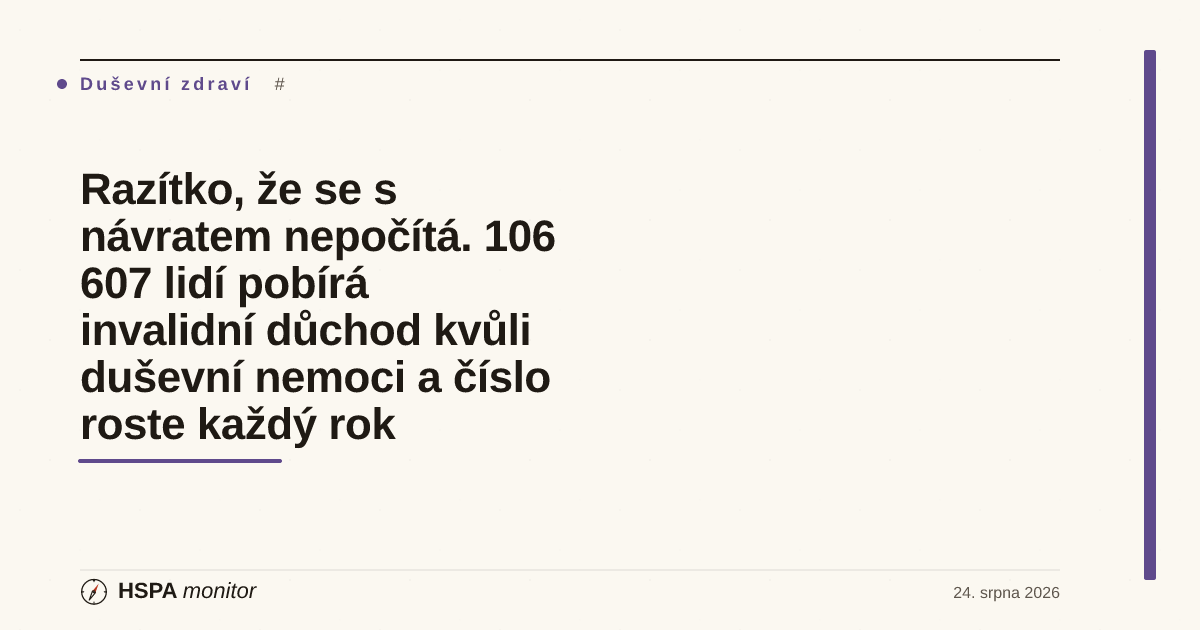
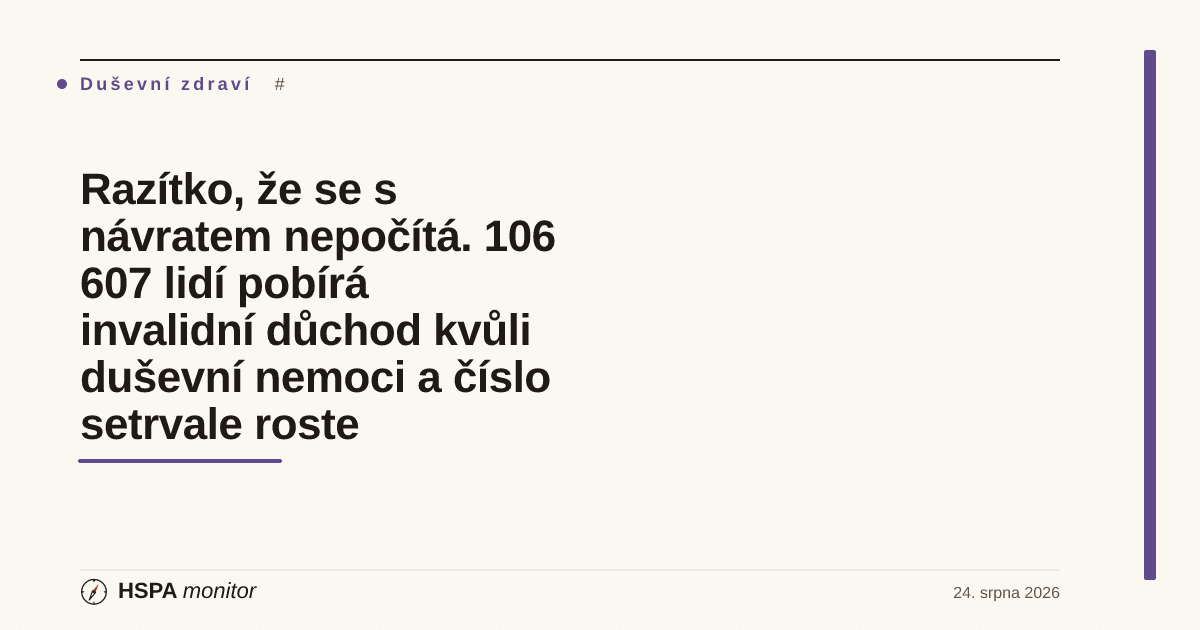
fix(článek): zpřesnit tvrzení o růstu řady invalidních důchodů
Řada 2010–2022 mezi lety 2010 a 2011 nepatrně klesla (86 493 → 86 456,
−37 důchodů), takže „roste každý jediný rok" neplatilo. Formulace v
titulku, hero kartě, grafu, metadatech i patient_story upraveny na
„od roku 2011 růst bez přerušení" s explicitní zmínkou výjimky.
Reaguje na review komentář na PR.

Claude-Session: https://claude.ai/code/session_01Vk18QXn1xwSsenumc4TPuv

Changed region(s): [[0.0617, 0.6333, 0.3392, 0.7238]]

diff --git a/05_M1_Starter/clanek-invalidni-duchody-dusevni.html b/05_M1_Starter/clanek-invalidni-duchody-dusevni.html
@@ -4,11 +4,11 @@
 <meta charset="UTF-8">
 <meta name="viewport" content="width=device-width, initial-scale=1.0">
 <title>Razítko, že se s návratem nepočítá. 106 607 lidí pobírá invalidní důchod kvůli duševní nemoci · HSPA Monitor</title>
-<meta name="description" content="K 31. prosinci 2022 vyplácelo Česko 106 607 invalidních důchodů pro duševní poruchy — o 23 % více než v roce 2010. Číslo roste každý rok bez ohledu na ekonomický cyklus a duševní poruchy dnes stojí za čtvrtinou všech invalidních důchodů. Analýza dat ČSSZ a ÚZIS: kde se z léčitelné nemoci stává trvalá invalidita a jaké páky má stát.">
+<meta name="description" content="K 31. prosinci 2022 vyplácelo Česko 106 607 invalidních důchodů pro duševní poruchy — o 23 % více než v roce 2010. Od roku 2011 číslo roste bez přerušení, bez ohledu na ekonomický cyklus, a duševní poruchy dnes stojí za čtvrtinou všech invalidních důchodů. Analýza dat ČSSZ a ÚZIS: kde se z léčitelné nemoci stává trvalá invalidita a jaké páky má stát.">
 <meta name="robots" content="noindex, nofollow">
 <meta property="og:type" content="article">
 <meta property="og:title" content="Razítko, že se s návratem nepočítá. 106 607 lidí pobírá invalidní důchod kvůli duševní nemoci">
-<meta property="og:description" content="Invalidní důchody pro duševní poruchy: 86 493 (2010) → 106 607 (2022), růst každý jediný rok. V nově přiznaných dominují deprese a úzkostné poruchy — léčitelné stavy. OECD: duševní nemoci stojí za 30–50 % nových invalidních dávek. Co s tím může udělat stát.">
+<meta property="og:description" content="Invalidní důchody pro duševní poruchy: 86 493 (2010) → 106 607 (2022), od roku 2011 růst bez přerušení. V nově přiznaných dominují deprese a úzkostné poruchy — léčitelné stavy. OECD: duševní nemoci stojí za 30–50 % nových invalidních dávek. Co s tím může udělat stát.">
 <meta property="og:locale" content="cs_CZ">
 <meta property="article:published_time" content="2026-08-24">
 <meta property="article:section" content="Duševní zdraví">
@@ -20,7 +20,7 @@
     creation_phase: new-indicator+article-write
     primary_sources_added: 6
     visual_elements_added: 4
-    notes: "Novy indikator invalidni_duchody_dusevni (Vysledky · Dusevni zdravi · Invalidita a pracovni dopady, framework monitoring, dimension zdravi). Centralni KPI: 106 607 vyplacenych invalidnich duchodu pro dg. F00-F99 k 31.12.2022 (1. st. 30 161, 2. st. 15 387, 3. st. 61 059), zdroj UZIS Psychiatricka rocenka 2022 (tab. 5.1-5.3, data CSSZ). Casova rada 2010-2022: 86 493 -> 106 607 (+23 %), rust kazdy rok. Nove priznane 2022: 4 722 (2 783 + 718 + 1 221), nejcasteji F4 a F32-F33. Podil dusevnich poruch na vsech vyplacenych ID: cca ctvrtina (CSSZ rocenka duch. pojisteni 2022, skupina dg. WHO c. 5: 106 367 ze 413 513); na nove priznanych cca sestina (4 691 z 27 175). Benchmark narrative_only — narodni legislativa nesrovnatelna; OECD Fit Mind Fit Job: 30-50 % novych davek v OECD, DRV Nemecko ~40 %. Direction context_dependent -> signal neutral (rust = horsi zdravi populace i dostupnejsi davky; pokles = uzdravovani i prisnejsi posudky). Vsechna klicova cisla 1:1 z metodicke karty a seedu. Otevrene body pred publikaci: povysit status, published:true + robots index, pripadne doplnit rok 2023 az UZIS vyda rocenku."
+    notes: "Novy indikator invalidni_duchody_dusevni (Vysledky · Dusevni zdravi · Invalidita a pracovni dopady, framework monitoring, dimension zdravi). Centralni KPI: 106 607 vyplacenych invalidnich duchodu pro dg. F00-F99 k 31.12.2022 (1. st. 30 161, 2. st. 15 387, 3. st. 61 059), zdroj UZIS Psychiatricka rocenka 2022 (tab. 5.1-5.3, data CSSZ). Casova rada 2010-2022: 86 493 -> 106 607 (+23 %), rust od 2011 bez preruseni (jediny pokles rady: 2010→2011 o 37 duchodu). Nove priznane 2022: 4 722 (2 783 + 718 + 1 221), nejcasteji F4 a F32-F33. Podil dusevnich poruch na vsech vyplacenych ID: cca ctvrtina (CSSZ rocenka duch. pojisteni 2022, skupina dg. WHO c. 5: 106 367 ze 413 513); na nove priznanych cca sestina (4 691 z 27 175). Benchmark narrative_only — narodni legislativa nesrovnatelna; OECD Fit Mind Fit Job: 30-50 % novych davek v OECD, DRV Nemecko ~40 %. Direction context_dependent -> signal neutral (rust = horsi zdravi populace i dostupnejsi davky; pokles = uzdravovani i prisnejsi posudky). Vsechna klicova cisla 1:1 z metodicke karty a seedu. Otevrene body pred publikaci: povysit status, published:true + robots index, pripadne doplnit rok 2023 az UZIS vyda rocenku."
 -->
 <meta name="article:audit-status" content="draft">
 <link rel="stylesheet" href="src/styles.min.css">
@@ -54,7 +54,7 @@
         <span class="article-tag">Duševní zdraví</span>
         <span class="article-tag article-tag-muted">invalidní důchody · ČSSZ · deprese · koordinovaná rehabilitace</span>
       </div>
-      <h1 class="article-title">Razítko, že se s návratem nepočítá. 106 607 lidí pobírá invalidní důchod kvůli duševní nemoci a číslo roste každý rok</h1>
+      <h1 class="article-title">Razítko, že se s návratem nepočítá. 106 607 lidí pobírá invalidní důchod kvůli duševní nemoci a číslo setrvale roste</h1>
       <p class="article-deck">
         K 31. prosinci 2022 vyplácelo Česko <strong>106 607 invalidních důchodů</strong>, u nichž je příčinou invalidity duševní porucha — o 23 % více než v roce 2010. Je to nejtvrdší societální dopad, jaký duševní nemoc může mít: moment, kdy stát úředně uzná, že člověka nemoc trvale vyřadila z práce. V nově přiznávaných důchodech přitom dominují deprese a úzkostné poruchy — stavy, které jsou při včasné léčbě většinou návratné. Nový indikátor HSPA Monitoru měří přesně tuto mezeru mezi léčitelností a invalidizací.
       </p>
@@ -70,7 +70,7 @@
     <div class="article-body">
 
       <p class="article-lead">
-        Petře je čtyřicet tři a dvacet let pracovala jako účetní v Přerově. Po třetí atace těžké deprese strávila šest týdnů v psychiatrické nemocnici. Na ambulantního psychiatra čekala po propuštění tři měsíce, na hrazenou psychoterapii se ve svém okrese nedostala vůbec. Když po roce marodění doběhla podpůrčí doba nemocenské, poslal ji posudkový lékař do invalidního důchodu prvního stupně. „Úleva to nebyla,“ popisuje. „Bylo to razítko, že se nepočítá s tím, že se vrátím.“ Přesně v tom okamžiku se Petra přesunula z jedné statistiky do druhé — z dočasné pracovní neschopnosti do čísla, které roste v Česku každý jediný rok už přes dekádu.
+        Petře je čtyřicet tři a dvacet let pracovala jako účetní v Přerově. Po třetí atace těžké deprese strávila šest týdnů v psychiatrické nemocnici. Na ambulantního psychiatra čekala po propuštění tři měsíce, na hrazenou psychoterapii se ve svém okrese nedostala vůbec. Když po roce marodění doběhla podpůrčí doba nemocenské, poslal ji posudkový lékař do invalidního důchodu prvního stupně. „Úleva to nebyla,“ popisuje. „Bylo to razítko, že se nepočítá s tím, že se vrátím.“ Přesně v tom okamžiku se Petra přesunula z jedné statistiky do druhé — z dočasné pracovní neschopnosti do čísla, které v Česku roste nepřetržitě už od roku 2011.
       </p>
 
       <figure class="av-figure" aria-labelledby="avCntH">
@@ -84,7 +84,7 @@
           <div class="av-counter-block">
             <span class="av-counter" data-value="23" data-suffix=" %">+23 %</span>
             <span class="av-counter-label">růst od roku 2010</span>
-            <span class="av-counter-foot">z 86 493 na 106 607, nárůst každý rok</span>
+            <span class="av-counter-foot">z 86 493 na 106 607, od roku 2011 bez poklesu</span>
           </div>
           <div class="av-counter-block">
             <span class="av-counter" data-value="61059">61 059</span>
@@ -108,9 +108,9 @@
         Stejně jako u nemocenské absence platí, že číslo nelze číst jednosměrně — v datovém kontraktu má proto směr „kontextově závislý“ a signál „neutrální“. Růst může znamenat horší duševní zdraví populace, ale také dostupnější dávkový systém, který lidi s vážnou nemocí nenechá bez příjmu. Pokles může znamenat úspěšnou léčbu a návraty do práce — ale i přísnější posudkovou praxi, která nemocné jen přesune do jiných, hůře viditelných statistik. Co ale interpretaci potřebuje vždycky, je struktura: <em>kdo</em>, <em>pro jaké diagnózy</em> a <em>v jakém věku</em> do invalidity odchází. A právě struktura českých dat vypráví znepokojivý příběh.
       </p>
 
-      <h3>Stav v Česku: růst každý rok, bez ohledu na cyklus</h3>
+      <h3>Stav v Česku: setrvalý růst, bez ohledu na cyklus</h3>
       <p>
-        V roce 2010 vyplácel stát pro duševní diagnózy 86 493 invalidních důchodů. V roce 2022 to bylo 106 607 — růst o 23 % za dvanáct let, v průměru o více než 1 600 důchodů ročně. Řada je pozoruhodně monotónní: nezakolísala v konjunktuře s rekordně nízkou nezaměstnaností, nezpomalila ji ani pandemie. Zatímco celkový počet všech invalidních důchodů v Česku ve stejném období víceméně stagnoval, důchody pro duševní poruchy setrvale přibývají — jejich podíl na všech vyplácených invalidních důchodech tak vyrostl na zhruba čtvrtinu (podle ročenky ČSSZ za rok 2022 připadá na skupinu duševních poruch 106 367 ze 413 513 vyplácených invalidních důchodů).
+        V roce 2010 vyplácel stát pro duševní diagnózy 86 493 invalidních důchodů. V roce 2022 to bylo 106 607 — růst o 23 % za dvanáct let, v průměru o více než 1 600 důchodů ročně. Řada je pozoruhodně vytrvalá: po nepatrném poklesu mezi lety 2010 a 2011 (o 37 důchodů) roste každý další rok — nezakolísala v konjunktuře s rekordně nízkou nezaměstnaností, nezpomalila ji ani pandemie. Zatímco celkový počet všech invalidních důchodů v Česku ve stejném období víceméně stagnoval, důchody pro duševní poruchy setrvale přibývají — jejich podíl na všech vyplácených invalidních důchodech tak vyrostl na zhruba čtvrtinu (podle ročenky ČSSZ za rok 2022 připadá na skupinu duševních poruch 106 367 ze 413 513 vyplácených invalidních důchodů).
       </p>
 
       <figure class="av-figure" aria-labelledby="avBarH">
@@ -123,7 +123,7 @@
           <li class="av-bar-row" data-value="105528" data-label="2021"></li>
           <li class="av-bar-row av-bar-row-highlight" data-value="106607" data-label="2022"></li>
         </ol>
-        <p class="av-figure-note">Zdroj: ÚZIS ČR — Psychiatrická ročenka 2022, tab. 5.3 (data ČSSZ). Vybrané roky souvislé řady 2010–2022; počet vyplácených důchodů roste každý jednotlivý rok řady.</p>
+        <p class="av-figure-note">Zdroj: ÚZIS ČR — Psychiatrická ročenka 2022, tab. 5.3 (data ČSSZ). Vybrané roky souvislé řady 2010–2022; s výjimkou nepatrného poklesu 2010→2011 (o 37 důchodů) počet vyplácených důchodů roste každý další rok řady.</p>
       </figure>
 
       <h3>Dvě různá selhání v jednom čísle</h3>
